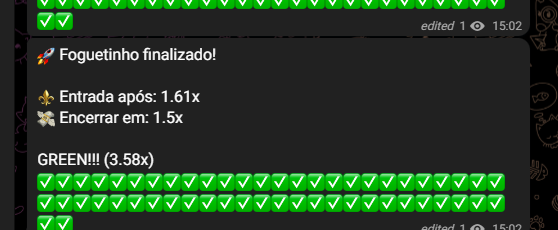
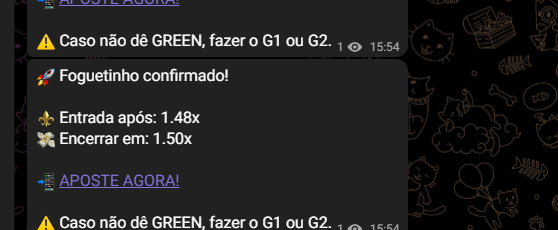
Funcao gale ajustada. Bug Corrigidos

diff --git a/robo-ocr-gale.py b/robo-ocr-gale.py
@@ -23,7 +23,6 @@ def jogar():
     pyautogui.moveTo(3044,846)  # Entrada de testes
     pyautogui.click()
     print('...::: ENTROU COM A APOSTA :::...')
-    sleep(1)
     # analisaGreen()
     analisaVela()
 
@@ -120,6 +119,7 @@ def analisaVela():
                 if(oddCrash < 2.00):
                     print("JOGANDO GALE")
                     jogarGale()
+                    analisaGreen()
                     break
                 elif(oddCrash > 2.00):
                     print("SEM NECESSIDADE DO GALE, VOLTANDO ANALISAR O GRUPO")
@@ -127,23 +127,23 @@ def analisaVela():
                 else:
                     print("VERIFICANDO NECESSIDADE DO GALE")
 
-# def analisaGreen():
-   # while(True):
-    #    extrairImagem()
-    #    imagem = cv2.imread("entrada.png")
-    #    # Converte a imagem para o formato de texto usando o pytesseract
-    #    textoGreen = pytesseract.image_to_string(imagem, lang="por")
-    #
-    #    fogueteFinalizado = re.findall(r'\bFoguetinho finalizado\b', textoGreen)
-    #
-    #    #print(confirmacaoGreen)
-    #    print(fogueteFinalizado)
-    #
-    #    #if len(confirmacaoGreen) != 0 and len(fogueteFinalizado) != 0:
-    #    if len(fogueteFinalizado) != 0:
-    #        break
-    #    else:
-    #         print('...::: VERIFICANDO GREEN :::...')
+def analisaGreen():
+    while(True):
+        extrairImagem()
+        imagem = cv2.imread("entrada.png")
+        # Converte a imagem para o formato de texto usando o pytesseract
+        textoGreen = pytesseract.image_to_string(imagem, lang="por")
+
+        fogueteFinalizado = re.findall(r'\bFoguetinho finalizado\b', textoGreen)
+
+        #print(confirmacaoGreen)
+        print(fogueteFinalizado)
+
+        #if len(confirmacaoGreen) != 0 and len(fogueteFinalizado) != 0:
+        if len(fogueteFinalizado) != 0:
+            break
+        else:
+                print('...::: VERIFICANDO GREEN :::...')
 
 while(True):
     extrairImagem()

diff --git a/teste.py b/teste.py
@@ -12,6 +12,30 @@ pytesseract.pytesseract.tesseract_cmd = caminho + r"\tesseract.exe"
 
 #pyautogui.mouseInfo()
 
+def extrairImagem():
+    with mss.mss() as sct:
+        # Get information of monitor 2
+        monitor_number = 2
+
+        # The screen part to capture
+        monitor = {
+            "top": 770,
+            "left": 3250,
+            "width": 558,
+            "height": 230,
+            "mon": monitor_number,
+        }
+
+        output = "entrada.png".format(**monitor)
+
+        # Grab the data
+        sct_img = sct.grab(monitor)
+
+        # Save to the picture file
+        mss.tools.to_png(sct_img.rgb, sct_img.size, output=output)
+        print(output)
+        sleep(1)
+
 def extrairImagemVelaVoou():
     with mss.mss() as sct:
         # Get information of monitor 2
@@ -70,13 +94,32 @@ def analisaVela():
 
                 if(oddCrash < 2.00):
                     print("JOGANDO GALE")
-                  
+                    #jogarGale()
+                    analisaGreen()
                     break
+                
                 elif(oddCrash > 2.00):
                     print("SEM NECESSIDADE DO GALE, VOLTANDO ANALISAR O GRUPO")
                     break
                 else:
                     print("VERIFICANDO NECESSIDADE DO GALE")
+        
+def analisaGreen():
+    while(True):
+        extrairImagem()
+        imagem = cv2.imread("entrada.png")
+        # Converte a imagem para o formato de texto usando o pytesseract
+        textoGreen = pytesseract.image_to_string(imagem, lang="por")
 
-    
+        fogueteFinalizado = re.findall(r'\bFoguetinho finalizado\b', textoGreen)
+
+        #print(confirmacaoGreen)
+        print(fogueteFinalizado)
+
+        #if len(confirmacaoGreen) != 0 and len(fogueteFinalizado) != 0:
+        if len(fogueteFinalizado) != 0:
+            break
+        else:
+                print('...::: VERIFICANDO GREEN :::...')
+
 analisaVela()
